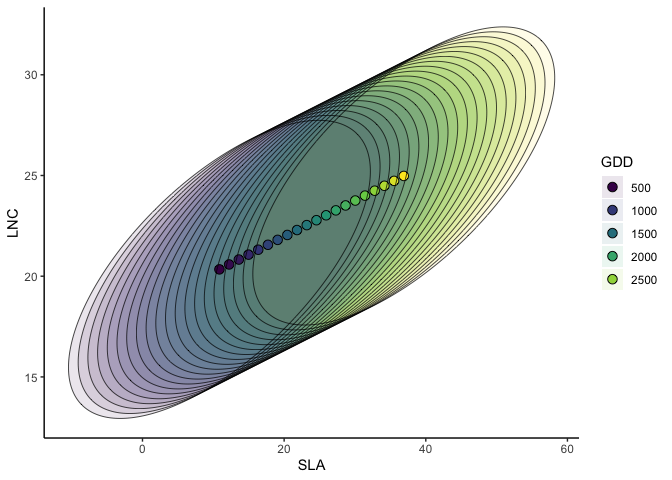
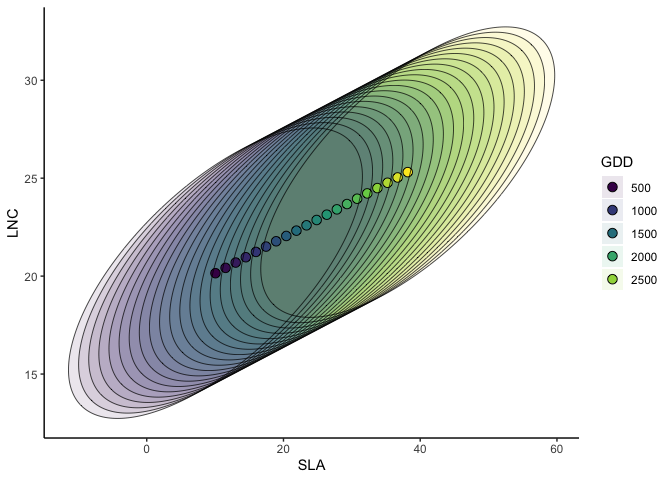
updates devtools

diff --git a/README.md b/README.md
@@ -39,6 +39,7 @@ sudo apt-get install jags
 Once JAGS have been installed, the following code should run:
 
 ``` r
+library(devtools)
 install_github("giopogg/jtdm")
 ```
 
@@ -86,18 +87,18 @@ getB(m)$Bmean
 ```
 
     ##        (Intercept)         GDD       FDD    forest
-    ## SLA        8.78095 0.010872252 0.5490040 11.059551
-    ## LNC       20.65485 0.001937326 0.1814652  3.021635
-    ## Height    12.36151 0.016775119 0.1248564  3.824376
+    ## SLA       7.555723 0.011747051 0.5269073 10.295137
+    ## LNC      20.221662 0.002155121 0.1596305  2.644149
+    ## Height   12.004760 0.017649086 0.1777885  3.378382
 
 ``` r
 get_sigma(m)$Smean
 ```
 
     ##              SLA        LNC      Height
-    ## SLA     75.81373 17.3085241 -14.5933684
-    ## LNC     17.30852  9.1407323   0.6651481
-    ## Height -14.59337  0.6651481  95.4718023
+    ## SLA     77.13453 17.7142774 -12.9350023
+    ## LNC     17.71428  9.1781229   0.8783576
+    ## Height -12.93500  0.8783576  94.2272649
 
 Trait-environment relationships
 
@@ -123,7 +124,7 @@ joint_trait_prob(m,indexTrait=c("SLA","LNC"), Xnew=X["VCHA_2940",], bounds=list(
 ```
 
     ##         1 
-    ## 0.1077798
+    ## 0.0972723
 
 Then, we compute this probability along the GDD gradient
 
